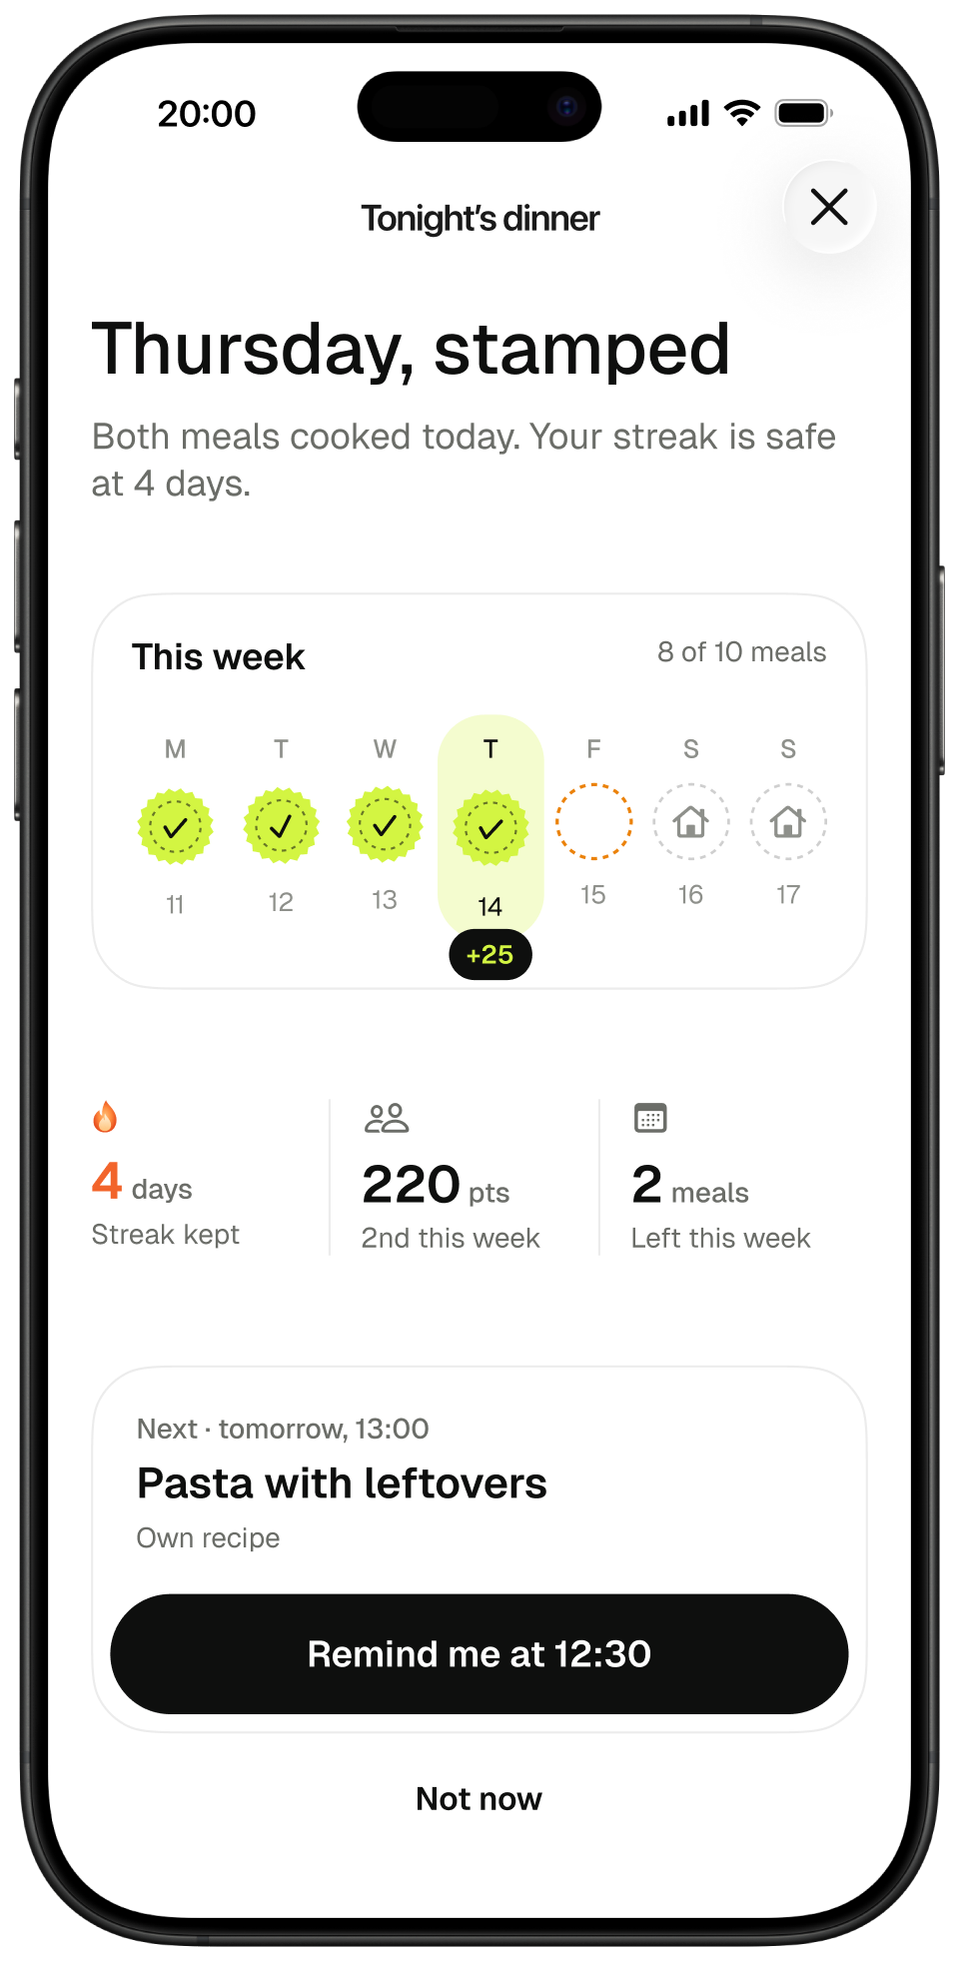
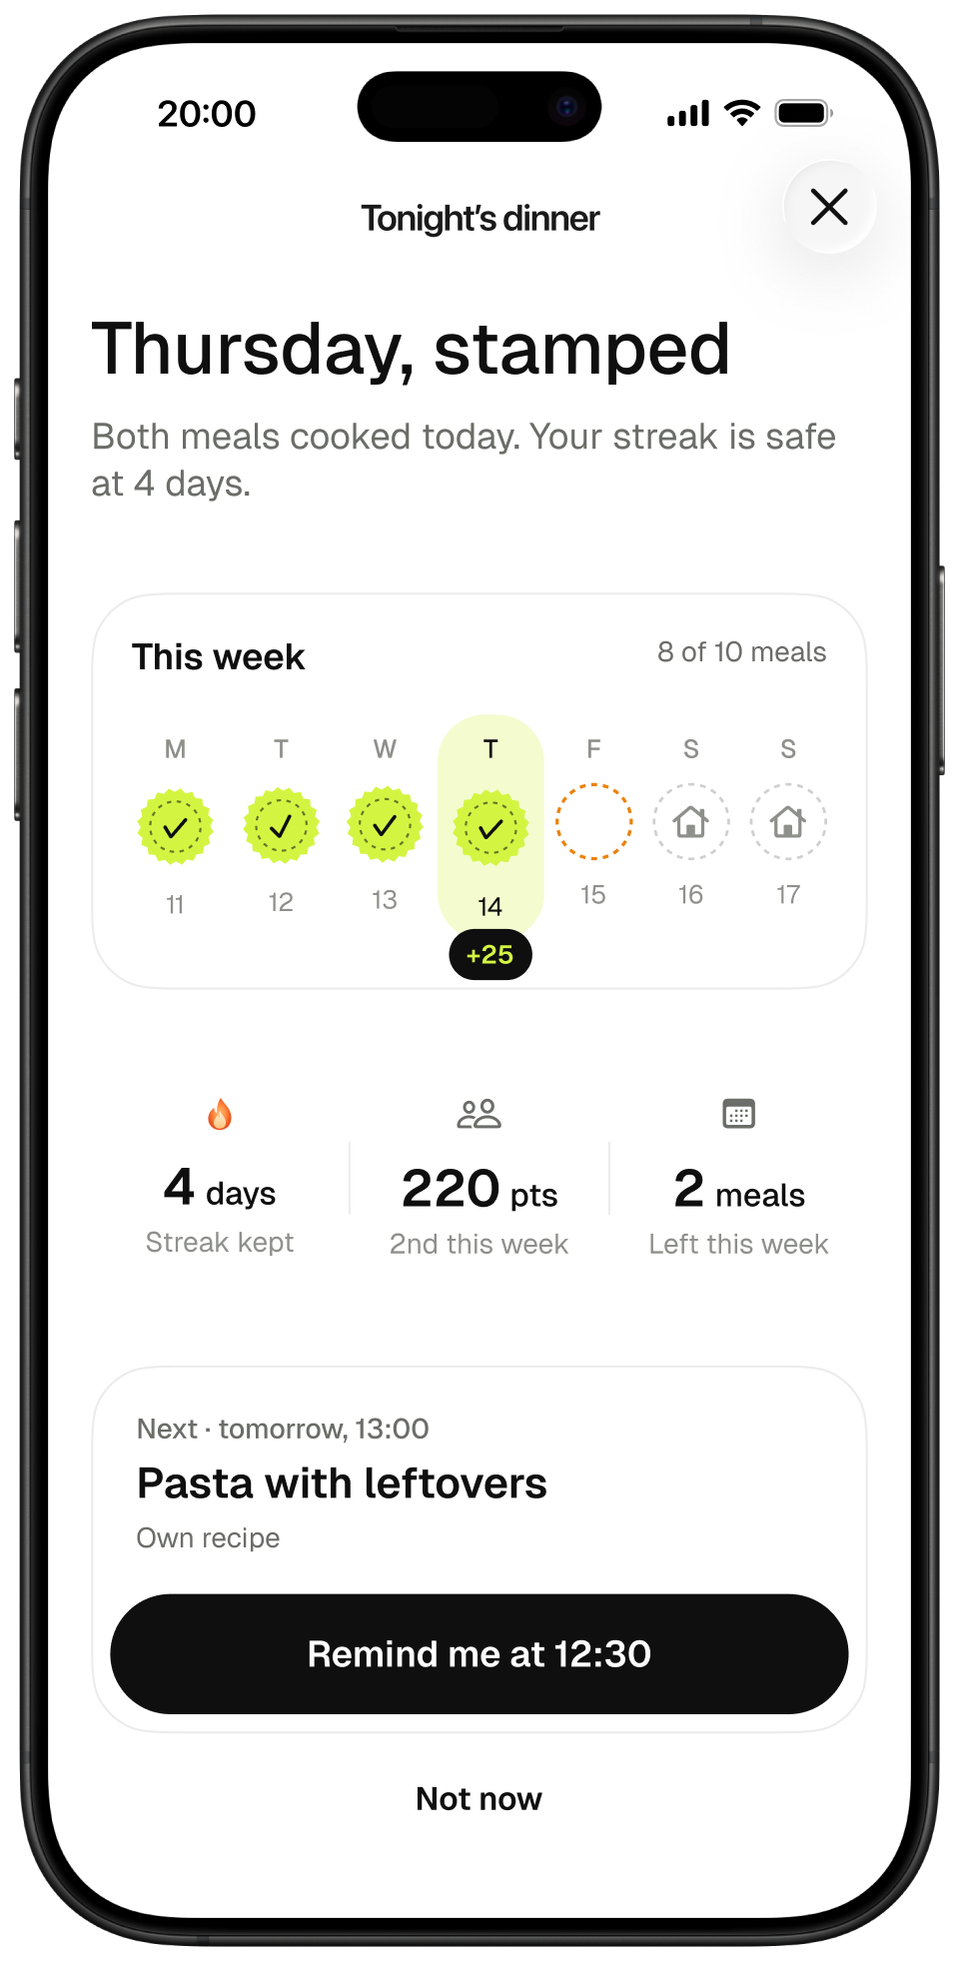
JustCook: hands mockup in Result, four widgets, updated stamped screen

Changed region(s): [[0.375, 0.5599, 0.5938, 0.6532], [0.0938, 0.5599, 0.3125, 0.6532], [0.6562, 0.5599, 0.8438, 0.6532]]

diff --git a/HANDOFF.md b/HANDOFF.md
@@ -807,6 +807,11 @@ When a CLOUD session hits something that needs the local environment, it must:
 
 ## Appendix A — Session log (newest first; keep ~15 entries, fold older facts into §1–§9 above)
 
+- **2026-10-18 · LOCAL (5)** · JustCook Result: the one mockup is now the hands photo (`mockup-hands.jpg`, full photo with
+  its grey ground, no fades) as scene "In hand"; the table mockup moved to the end of the Design app rows (wide Figure).
+  Widgets group → quad (small, small ending, medium, large). Meal stamped re-exported (owner edit). Widget small ending
+  is now a full shot (Design row crop 0.36). Pushed `main`.
+
 - **2026-10-18 · LOCAL (4)** · Hands mockup moved to the end of the app group (after the Features rows, before Brand and
   campaign), full body-lane width. Features `anchor: bottom` fixed (img flex-shrink 0: the phone’s bottom edge now
   shows, cut at the top); notification rows crop 0.85. Pushed `main`.
